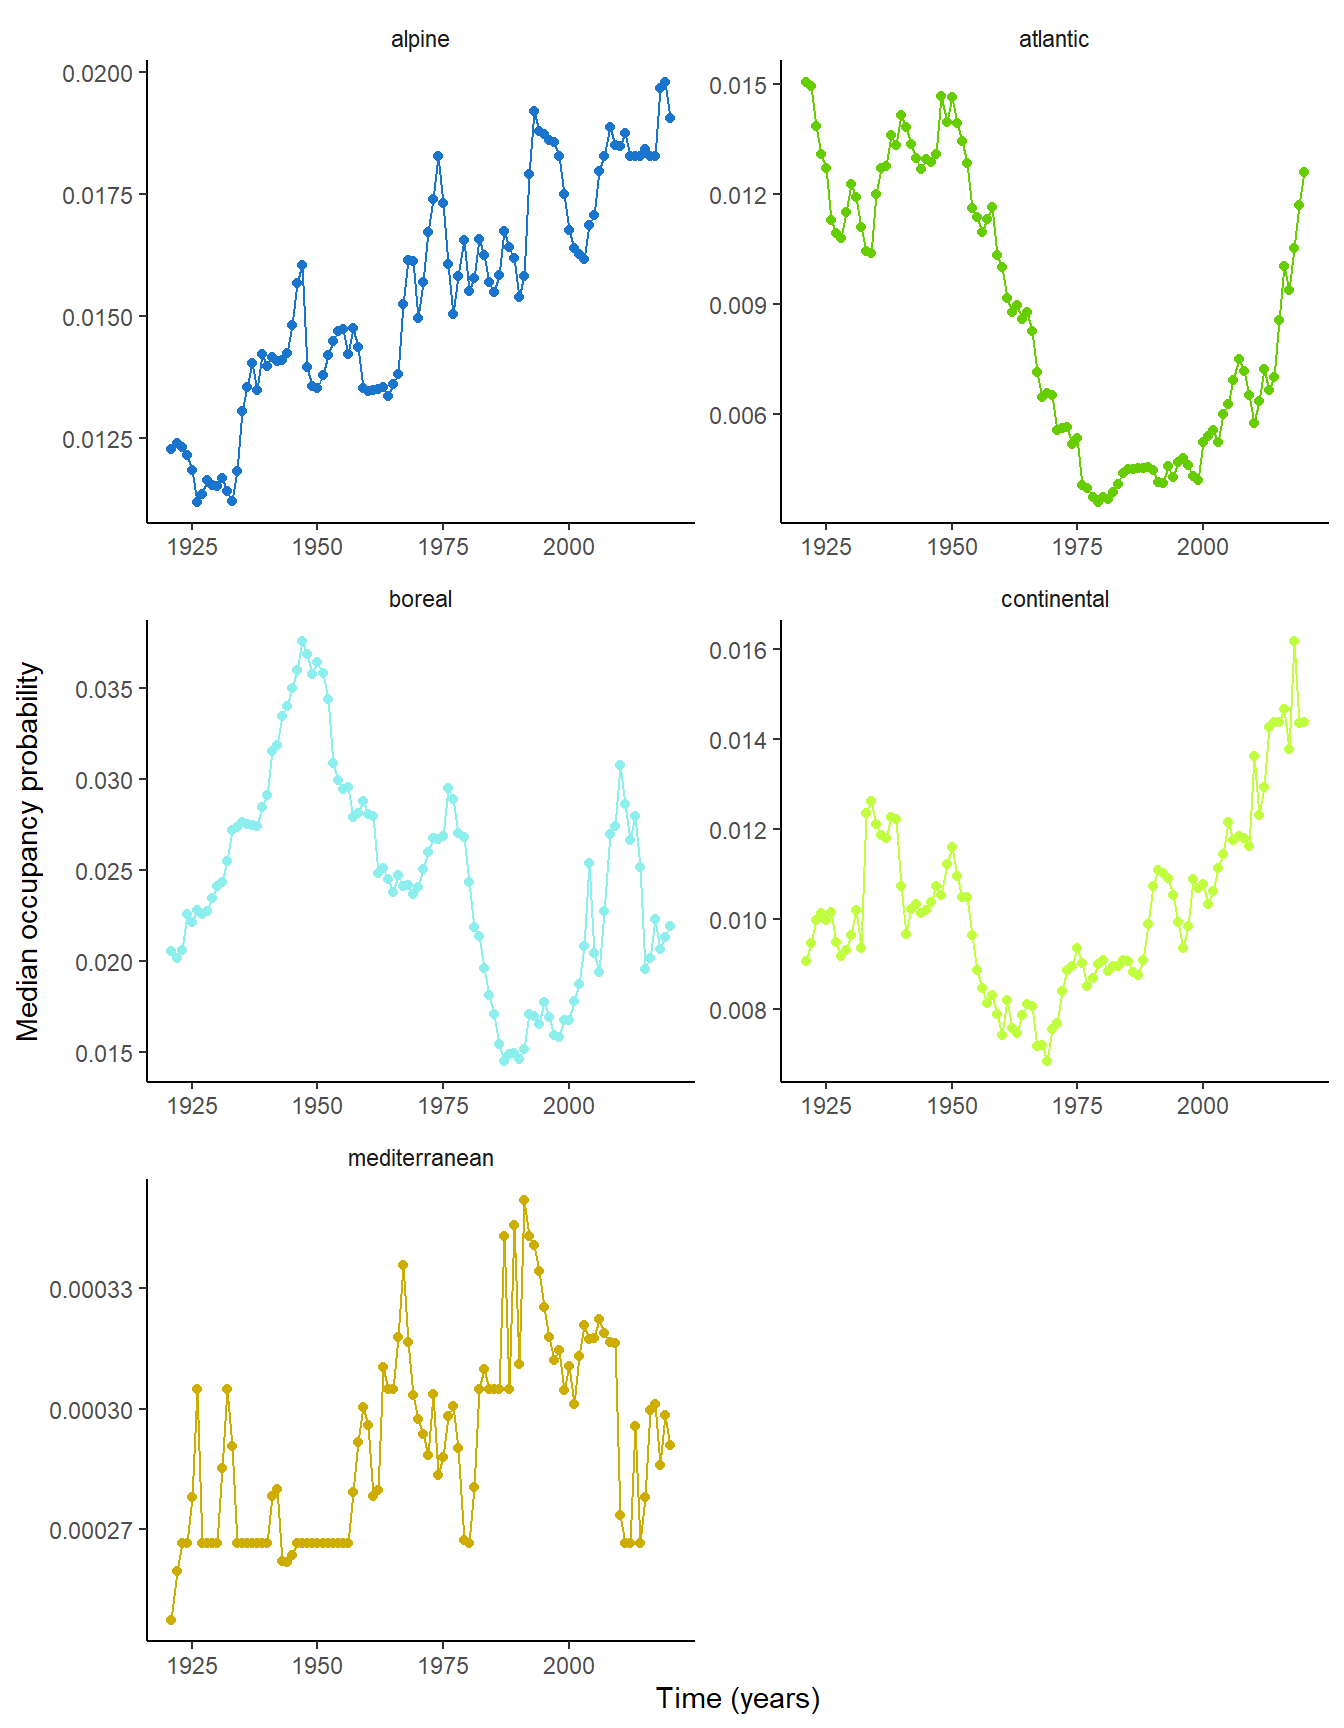
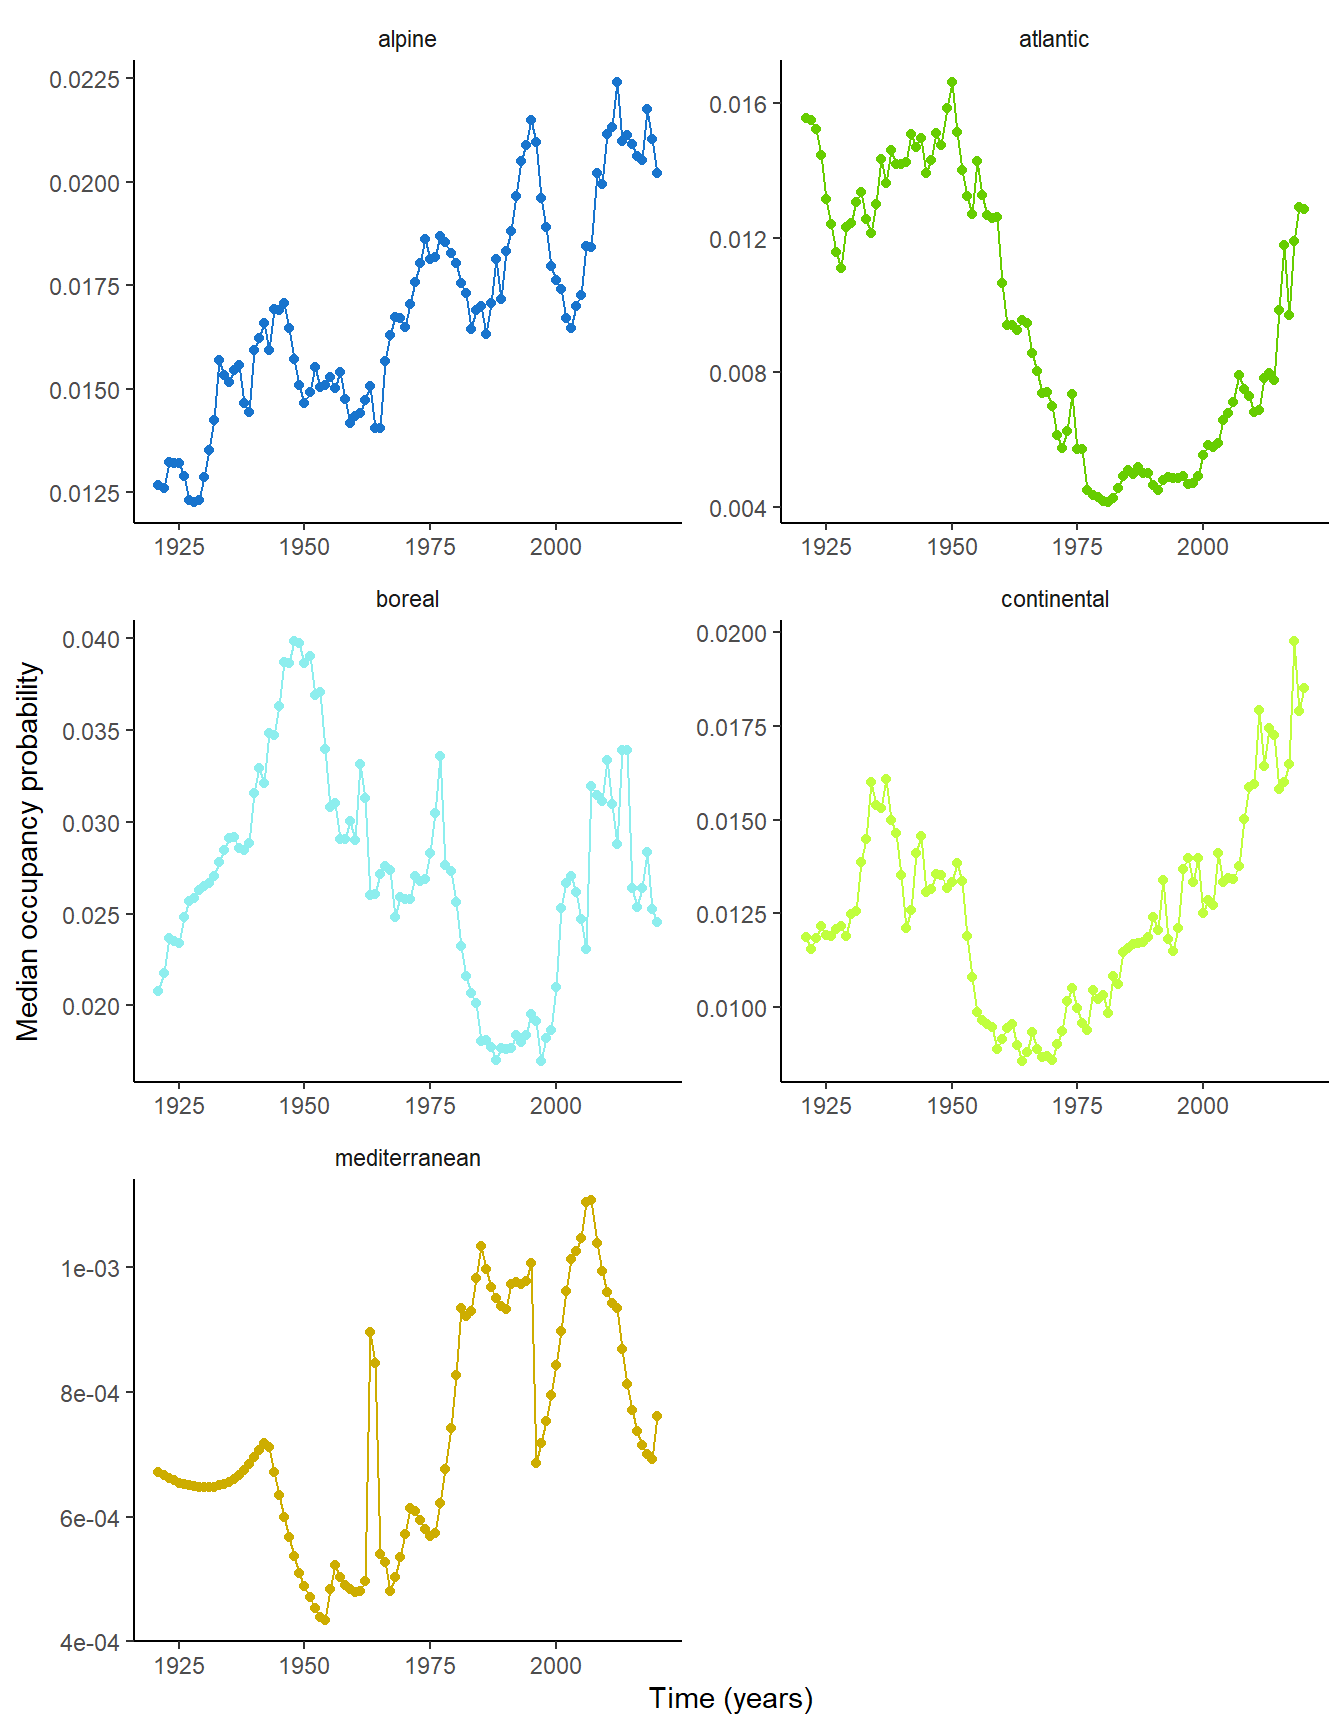
new

diff --git a/docs/trends.html b/docs/trends.html
@@ -336,6 +336,67 @@ z_{rij} \sim Bernouilli(\Psi_{rij}); logit(\Psi_{rij})=\beta_0 + \Theta_{rj} + \
 <div class="sourceCode cell-code" id="cb1"><pre class="sourceCode r code-with-copy"><code class="sourceCode r"><span id="cb1-1"><a href="#cb1-1" aria-hidden="true" tabindex="-1"></a>model<span class="ot">=</span><span class="fu">glmmTMB</span>(Y<span class="sc">~</span>sampling_completeness<span class="sc">+</span>(<span class="dv">1</span><span class="sc">|</span>year)<span class="sc">+</span>(<span class="dv">1</span><span class="sc">|</span>region<span class="sc">/</span>month),<span class="at">ziformula=</span><span class="sc">~</span>year<span class="sc">*</span>region<span class="sc">+</span>(<span class="dv">1</span><span class="sc">|</span>site),<span class="at">family=</span>binomial,<span class="at">data=</span>dat)</span></code><button title="Copy to Clipboard" class="code-copy-button"><i class="bi"></i></button></pre></div>
 </div>
 <p>We fitted this model for all species with at least 10 records in Europe, and that have been detected in at least 5 surveys in a given region. For each species, we removed the biogeographic regions in which the species has been detected in less than 5 surveys. This led to a list of 1,332 species, over the 1,745 species in the dataset.</p>
+<p>Since optimization of the model was tricky, to maxmimize the chance of convergence, we tried 4 different solvers compatible with <em>glmmTMB</em>: <em>nlimb</em>, <em>Nelder-Mead</em>, <em>BFGS</em> and <em>CG</em>. We also tried two different covariance structures for the temporal autocorrelation in the non-linear occupancy model: AR1 and the Ornstein-Uhlenbeck. We run models in the order listed in the <a href="#tbl-opti">Table&nbsp;1</a> and kept the first model that converged.</p>
+<div class="cell">
+<div class="cell-output-display">
+<div id="tbl-opti" class="anchored">
+<table data-quarto-postprocess="true" class="table table-sm table-striped small">
+<caption>Table&nbsp;1: Order of run for the different combination of solvers and covariance structure during optimization of the model. For the linear we only tried the four different solvers in the order displayed here.</caption>
+<thead>
+<tr class="header">
+<th style="text-align: left;" data-quarto-table-cell-role="th">solver</th>
+<th style="text-align: left;" data-quarto-table-cell-role="th">covariance structure</th>
+<th style="text-align: right;" data-quarto-table-cell-role="th">order of run</th>
+</tr>
+</thead>
+<tbody>
+<tr class="odd">
+<td style="text-align: left;">nlimb</td>
+<td style="text-align: left;">AR1</td>
+<td style="text-align: right;">1</td>
+</tr>
+<tr class="even">
+<td style="text-align: left;">Nelder-Mead</td>
+<td style="text-align: left;">AR1</td>
+<td style="text-align: right;">2</td>
+</tr>
+<tr class="odd">
+<td style="text-align: left;">BFGS</td>
+<td style="text-align: left;">AR1</td>
+<td style="text-align: right;">3</td>
+</tr>
+<tr class="even">
+<td style="text-align: left;">CG</td>
+<td style="text-align: left;">AR1</td>
+<td style="text-align: right;">4</td>
+</tr>
+<tr class="odd">
+<td style="text-align: left;">nlimb</td>
+<td style="text-align: left;">Ornstein-Uhlenbeck</td>
+<td style="text-align: right;">5</td>
+</tr>
+<tr class="even">
+<td style="text-align: left;">Nelder-Mead</td>
+<td style="text-align: left;">Ornstein-Uhlenbeck</td>
+<td style="text-align: right;">6</td>
+</tr>
+<tr class="odd">
+<td style="text-align: left;">BFGS</td>
+<td style="text-align: left;">Ornstein-Uhlenbeck</td>
+<td style="text-align: right;">7</td>
+</tr>
+<tr class="even">
+<td style="text-align: left;">CG</td>
+<td style="text-align: left;">Ornstein-Uhlenbeck</td>
+<td style="text-align: right;">8</td>
+</tr>
+</tbody>
+</table>
+</div>
+
+
+</div>
+</div>
 </section>
 </section>
 </section>
@@ -343,7 +404,7 @@ z_{rij} \sim Bernouilli(\Psi_{rij}); logit(\Psi_{rij})=\beta_0 + \Theta_{rj} + \
 <h1 data-number="3"><span class="header-section-number">3</span> Results</h1>
 <section id="sec-res_conv" class="level2" data-number="3.1">
 <h2 data-number="3.1" class="anchored" data-anchor-id="sec-res_conv"><span class="header-section-number">3.1</span> Species with convergence problems</h2>
-<p>For 854 species, occupancy trends could not be estimated properly because the model did not converge, regardless the algorithm used to optimize the model (“<em>nlimb</em>”, “<em>Nelder-Mead</em>”, “<em>BFGS</em>”, “<em>CG</em>” or “<em>L-BFGS-B</em>”). Most often these convergence problems are due to positive values in the Hessian Matrix, likely due to a flat likelihood profile. This means that a broad diversity of parameter combination are consistent with the observations, and thus that the data do not contain enough information to infer spatio-temporal patterns of occupancy in a reliable way. These problems of convergence tended to occur slightly more often when the occupancy of the species was detected in very few surveys (i.e.&nbsp;rare species, <a href="#fig-convergence">Figure&nbsp;4</a>). This is a bias that our study, and other similar studies have faced <span class="citation" data-cites="duchenne_long-term_2020 powney_widespread_2019">(<a href="#ref-duchenne_long-term_2020" role="doc-biblioref">Duchenne et al. 2020</a>; <a href="#ref-powney_widespread_2019" role="doc-biblioref">Powney et al. 2019</a>)</span>: we do not have enough historical data to model occupancy trends of the species that became rare or extinct before recent times. Thus our occupancy trends do not include these strong historical declines that are likely an important components when estimating the effect of past global change on biodiversity.This is a source of under-estimation of effects of global change on biodiversity that is important to keep in mind.</p>
+<p>For 854 species, occupancy trends could not be estimated properly because the model did not converge, regardless the algorithm used to optimize the model (“<em>nlimb</em>”, “<em>Nelder-Mead</em>”, “<em>BFGS</em>” or “<em>CG</em>”). Most often these convergence problems are due to positive values in the Hessian Matrix, likely due to a flat likelihood profile. This means that a broad diversity of parameter combination are consistent with the observations, and thus that the data do not contain enough information to infer spatio-temporal patterns of occupancy in a reliable way. These problems of convergence tended to occur slightly more often when the species was detected in very few surveys (i.e.&nbsp;rare species, <a href="#fig-convergence">Figure&nbsp;4</a>). This is a bias that our study, and other similar studies have faced <span class="citation" data-cites="duchenne_long-term_2020 powney_widespread_2019">(<a href="#ref-duchenne_long-term_2020" role="doc-biblioref">Duchenne et al. 2020</a>; <a href="#ref-powney_widespread_2019" role="doc-biblioref">Powney et al. 2019</a>)</span>: we do not have enough historical data to model occupancy trends of the species that became rare or extinct before recent times. Thus our occupancy trends do not include these strong historical declines that are likely an important components when estimating the effect of past global change on biodiversity. This is a source of under-estimation of effects of global change on biodiversity that is important to keep in mind.</p>
 <p>These problems of convergence might be possible to solve in the future, by subsampling the dataset to focus on the core of the species area only, but it is for now a work in progress. It would also make the comparison across species slightly more difficult.</p>
 <div class="cell">
 <div class="cell-output-display">
@@ -382,11 +443,12 @@ z_{rij} \sim Bernouilli(\Psi_{rij}); logit(\Psi_{rij})=\beta_0 + \Theta_{rj} + \
 </div>
 </div>
 </div>
-<p>Moreover, although most of the region exhibit a positive average occupancy trend, this positive trend is driven by the right-skewness of the distribution (<a href="#fig-histo">Figure&nbsp;5</a>). When looking at the proportion of losers and winners per region, losers are often as common as winners. The only exception is the alpine biogeographic region, in which winners are strongly over-represented. This is consistent with the expectations under a climate warming scenario <span class="citation" data-cites="pradervand_functional_2014">(<a href="#ref-pradervand_functional_2014" role="doc-biblioref">Pradervand et al. 2014</a>)</span>.</p>
+<p>Moreover, although most of the region exhibit a positive average occupancy trend, this positive trend is driven by the right-skewness of the distribution (<a href="#fig-histo">Figure&nbsp;5</a>). When looking at the proportion of losers and winners per region, losers are often as common as winners (<a href="#tbl-lw">Table&nbsp;2</a>). The only exception is the alpine biogeographic region, in which winners are strongly over-represented. This is consistent with the expectations under a climate warming scenario <span class="citation" data-cites="pradervand_functional_2014">(<a href="#ref-pradervand_functional_2014" role="doc-biblioref">Pradervand et al. 2014</a>)</span>.</p>
 <div class="cell">
 <div class="cell-output-display">
+<div id="tbl-lw" class="anchored">
 <table data-quarto-postprocess="true" class="table table-sm table-striped small">
-<caption>Porpotion of winners and losers per biogeogrpahic region</caption>
+<caption>Table&nbsp;2: Porpotion of winners and losers per biogeogrpahic region.</caption>
 <thead>
 <tr class="header">
 <th style="text-align: left;" data-quarto-table-cell-role="th">Region</th>
@@ -422,6 +484,7 @@ z_{rij} \sim Bernouilli(\Psi_{rij}); logit(\Psi_{rij})=\beta_0 + \Theta_{rj} + \
 </tr>
 </tbody>
 </table>
+</div>
 
 
 </div>
